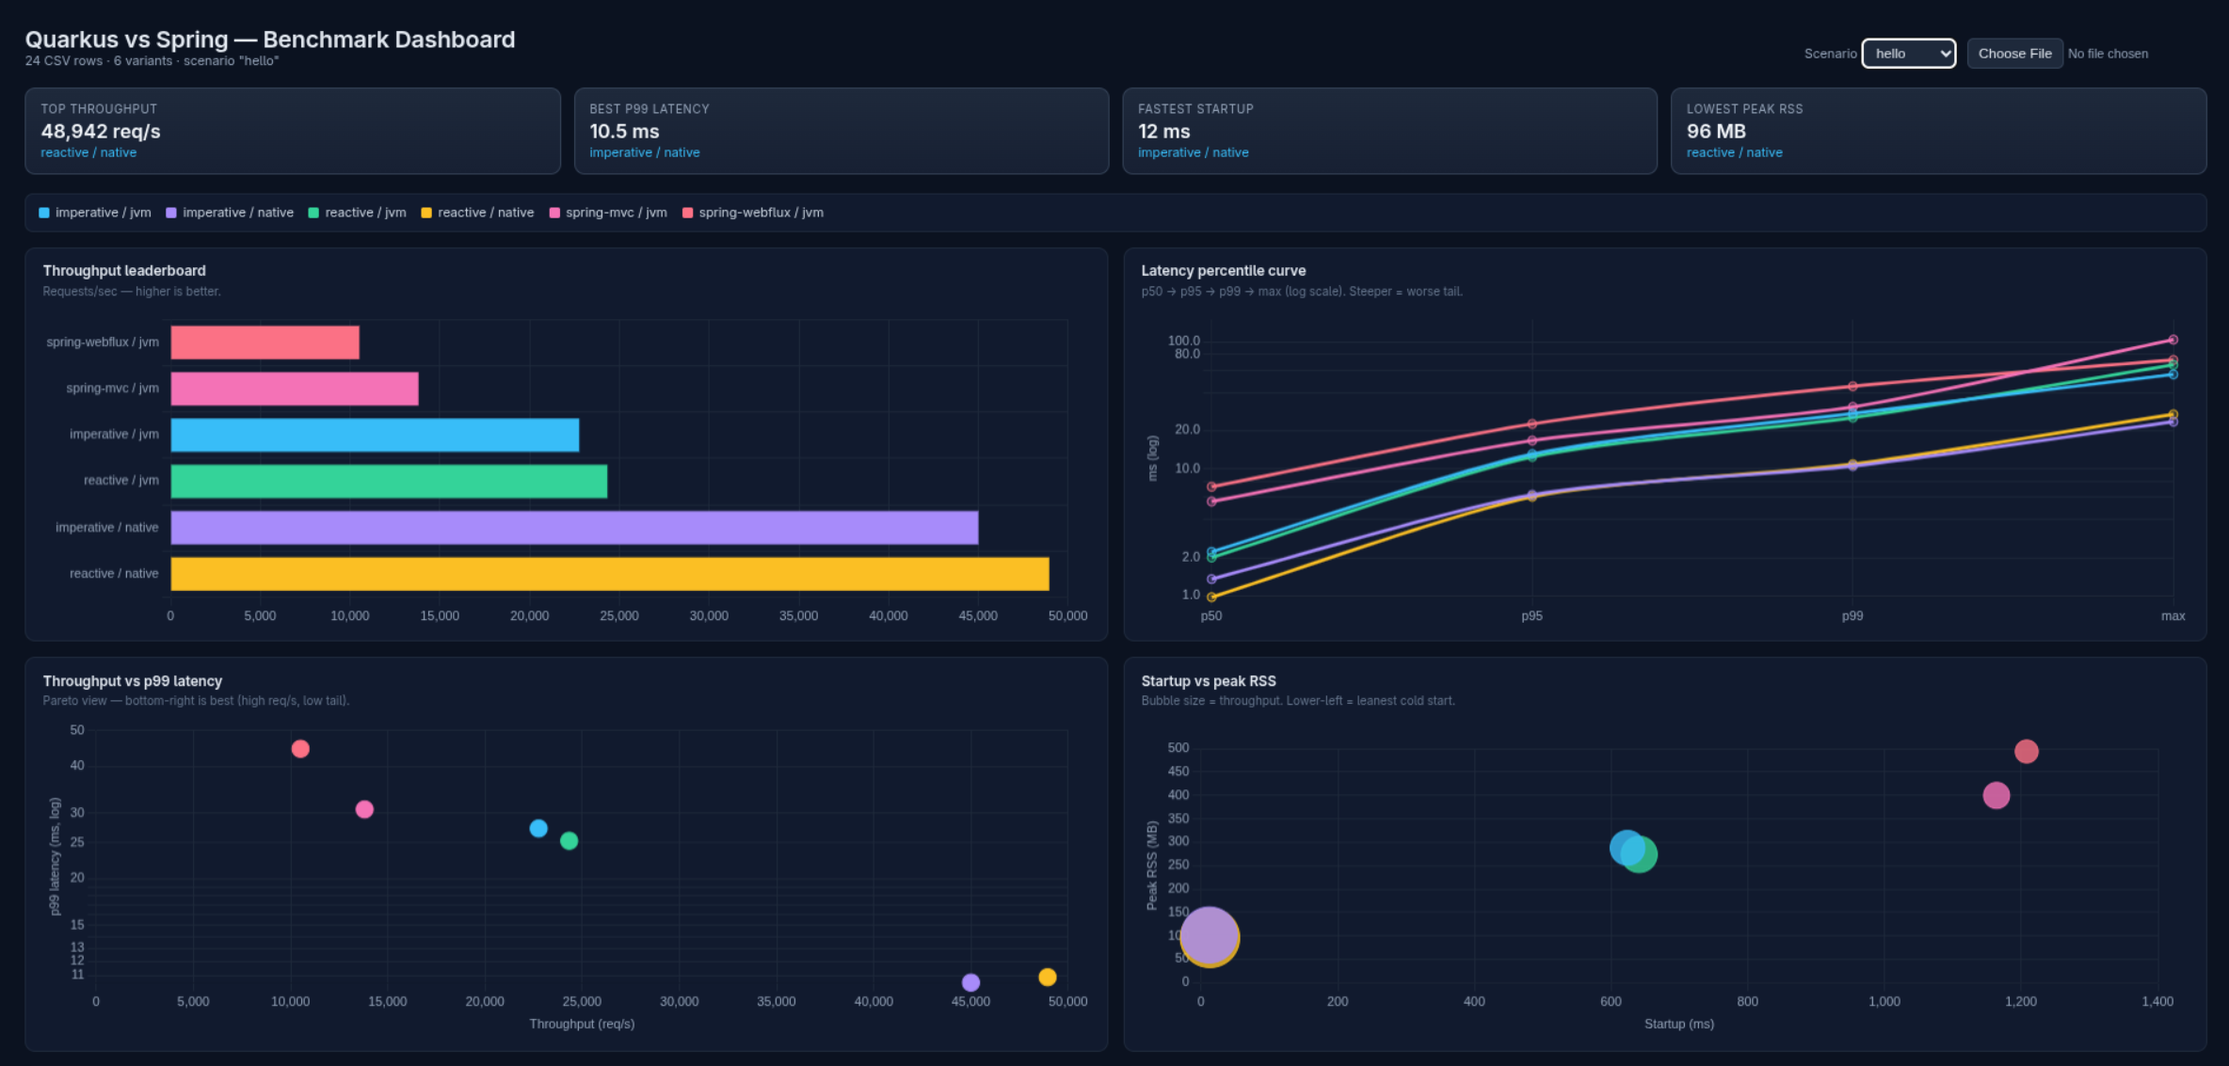
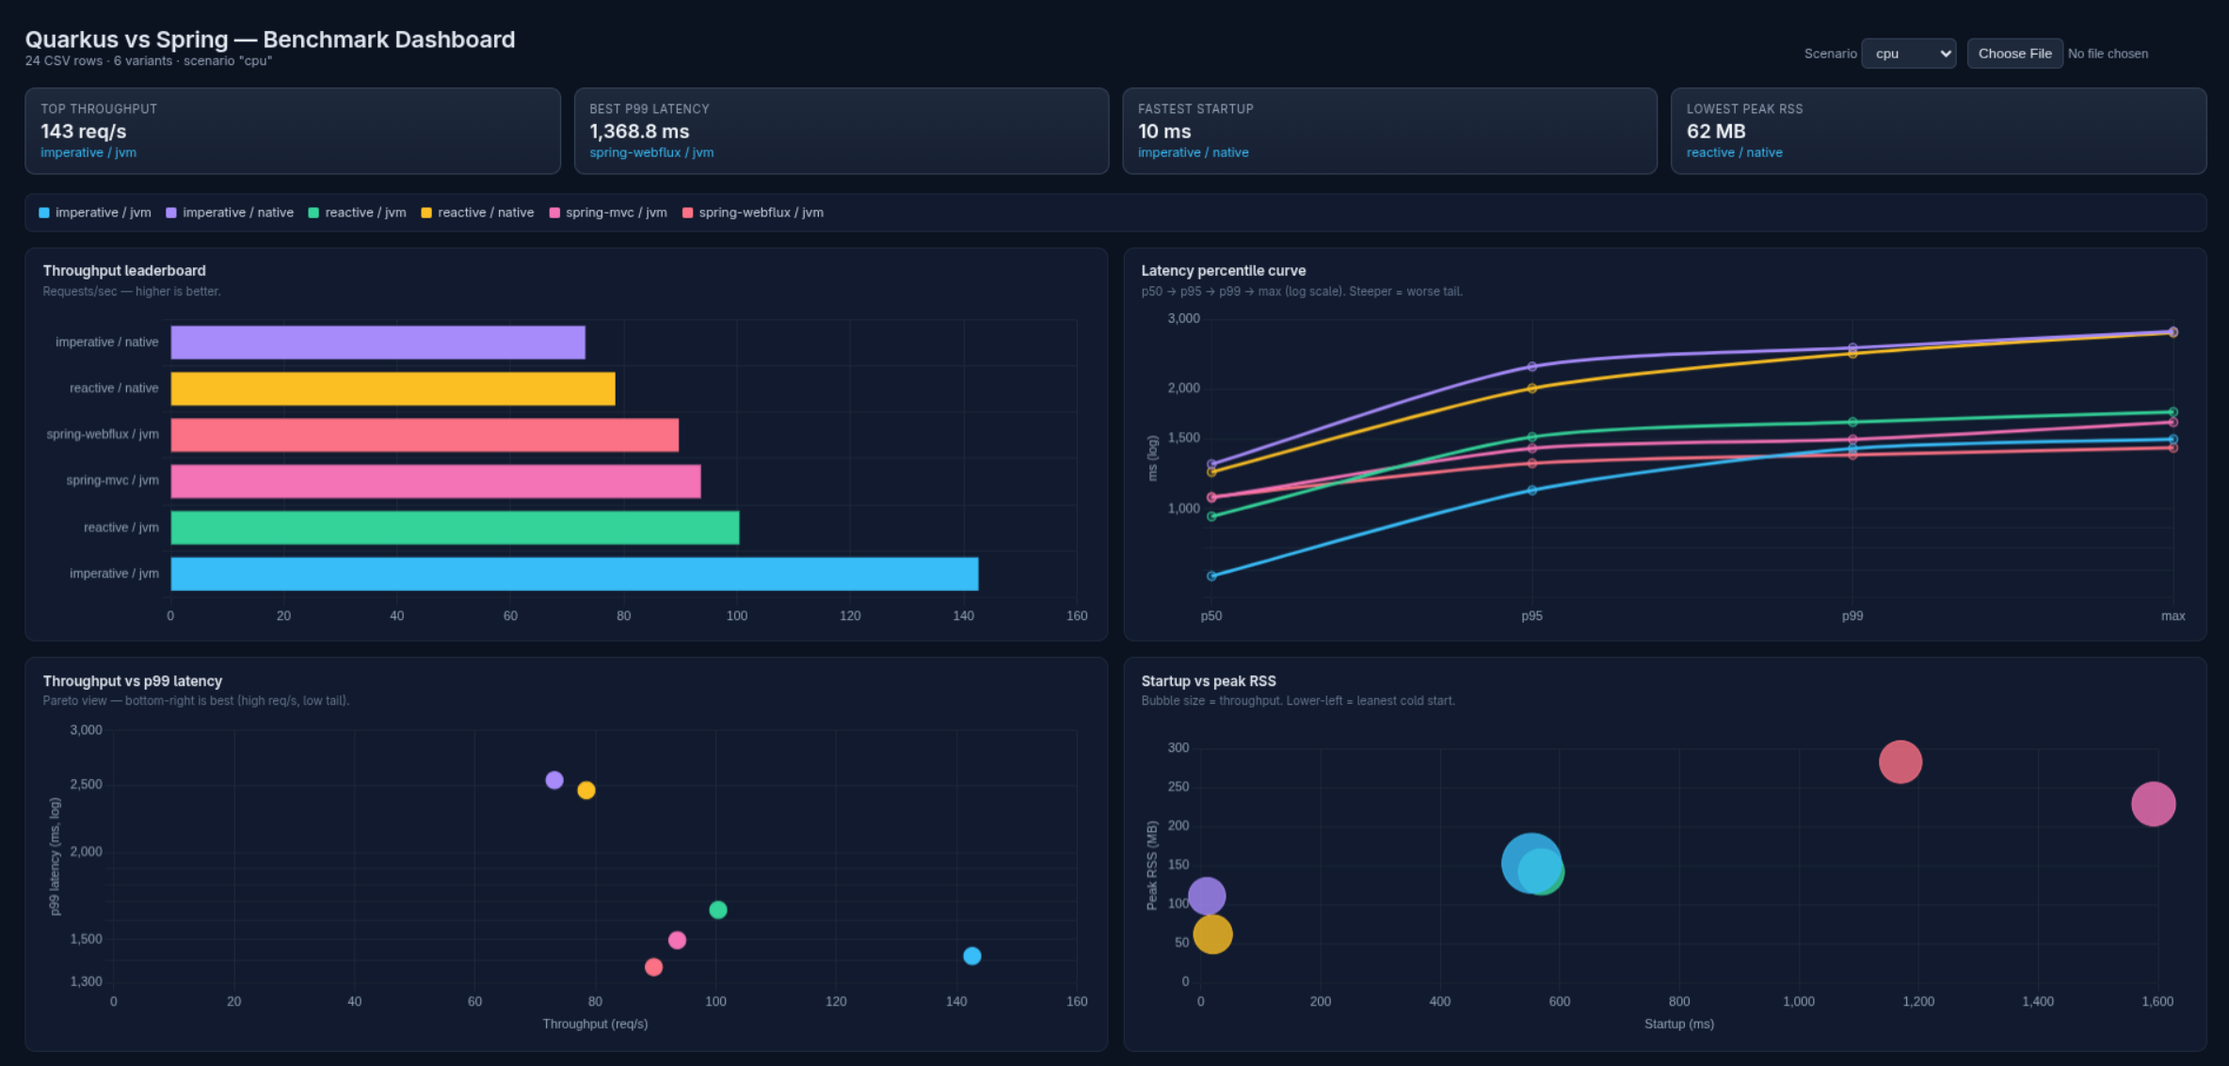
fix results

diff --git a/README.md b/README.md
@@ -1,6 +1,6 @@
 # Benchmark de Performance: Quarkus vs Spring Boot
 
-Comparação de seis variantes de runtime entre três formatos de carga de trabalho:
+Comparação de seis variantes de runtime entre quatro formatos de carga de trabalho:
 
 | Framework | Modo | Variante |
 |---|---|---|
@@ -9,13 +9,14 @@ Comparação de seis variantes de runtime entre três formatos de carga de traba
 | Spring Boot | Spring MVC (blocking, Tomcat) | apenas JVM |
 | Spring Boot | Spring WebFlux (reativo, Netty + Reactor) | apenas JVM |
 
-Cargas de trabalho: JSON leve (`hello`), uso intensivo de CPU (`cpu`), I/O simulado (`io`).
+Cargas de trabalho: JSON leve (`hello`), uso intensivo de CPU (`cpu`), pressão de alocação (`memory`) e I/O simulado (`io`).
 
 | Cenário | Caminho | Carga de trabalho |
 |---|---|---|
 | `hello` | `/{modo}/hello` | JSON leve, sem processamento |
 | `cpu` | `/{modo}/cpu` | Fibonacci(35) recursivo — CPU puro, determinístico |
 | `memory` | `/{modo}/memory` | Aloca + preenche um `byte[]` de 10 MB, retorna checksum — estressa o alocador e o GC |
+| `io` | `/{modo}/io` | Atraso artificial de ~200 ms (simula chamada externa / espera de banco) — a variante reativa usa suspensão não-bloqueante |
 
 > Cada aplicação expõe seu próprio prefixo de caminho (`/imperative`, `/reactive`, `/spring-mvc`, `/spring-webflux`); os binários nativos servem os mesmos caminhos que suas contrapartes JVM.
 
@@ -123,7 +124,7 @@ Seis testes de integração (3 endpoints × 2 aplicações), todos passando.
 
 [**k6**](https://k6.io/) (preferida conforme CLAUDE.md). Três scripts de cenário em `benchmarks/scenarios/`. Cada um recebe a URL completa pela variável de ambiente `URL`, de modo que os mesmos scripts cobrem ambas as aplicações e ambos os modos.
 
-### Perfil (rápido, modo de carga isolada, ~5 min no total)
+### Perfil (rápido, modo de carga isolada, ~10 min no total)
 
 Toda variante executa o **mesmo número exato de iterações** para um determinado cenário, então duração, vazão e latências são todas diretamente comparáveis dentro de um cenário.
 
@@ -131,10 +132,11 @@ Toda variante executa o **mesmo número exato de iterações** para um determina
 |---|---|
 | VUs concorrentes | 100 |
 | Iterações — hello | 50.000 |
-| Iterações — cpu | 500 |
-| Iterações — memory | 2.000 (cada = alocação de 10 MB → ~20 GB de alocações totais por variante) |
+| Iterações — cpu | 5.000 |
+| Iterações — memory | 5.000 (cada = alocação de 10 MB → ~50 GB de alocações totais por variante) |
+| Iterações — io | 5.000 |
 | Execuções por (app, modo, cenário) | 1 |
-| Total de execuções medidas | 18 (6 variantes × 3 cenários) |
+| Total de execuções medidas | 24 (6 variantes × 4 cenários) |
 
 O script orquestrador `benchmarks/run-all.sh`, para cada (app × modo × cenário): libera a porta, inicia a aplicação, aguarda `/hello` responder, captura o tempo de startup a partir do log da aplicação, executa o k6, lê o pico de RSS de `/proc/<pid>/status` (`VmHWM`, marca d'água registrada pelo kernel) e encerra a aplicação. Imprime uma única tabela markdown de resultados ao final. Sem CSV, sem arquivos por execução.
 
@@ -150,47 +152,58 @@ O script orquestrador `benchmarks/run-all.sh`, para cada (app × modo × cenári
 
 - Host: Linux 6.19, x86_64, 8 núcleos (valores de CPU% >100% refletem utilização multi-core)
 - Java 21 (OpenJDK), Quarkus 3.17.5, Mandrel via `quay.io/quarkus/ubi-quarkus-mandrel-builder-image:jdk-21`
-- **Benchmarking em host único**: o k6 e o SUT compartilham CPU. Os números são *comparativos dentro desta execução*, não manchetes absolutas.
+- **Benchmarking em host único**: o k6 e o SUT compartilham CPU. Os números são *comparativos dentro desta execução*, não valores absolutos de referência.
 - Sem tuning de JVM — apenas os padrões. O heap é ilimitado, o GC é o G1 padrão.
 
 ---
 
 ## Resultados
 
-Cada célula em um dado grupo de linhas de cenário executou o mesmo número de iterações, então **duração e req/s são comparáveis maçã-com-maçã dentro de cada cenário**. Amostra única por célula.
+Cada célula em um dado grupo de linhas de cenário executou o mesmo número de iterações, então **duração e req/s são diretamente comparáveis dentro de cada cenário**. Amostra única por célula.
 
 ### `/hello` — JSON leve (50.000 requisições, medição do overhead do framework)
 
 | app | modo | duração s | req/s | p95 ms | p99 ms | startup ms | pico RSS MB |
 |---|---|---:|---:|---:|---:|---:|---:|
-| reactive | native | **1.73** | **28.914** | **9.6** | **19.4** | 14 | 96 |
-| imperative | native | 1.86 | 26.874 | 9.7 | 18.5 | **14** | 102 |
-| imperative | jvm | 2.31 | 21.611 | 13.3 | 29.0 | 668 | 296 |
-| reactive | jvm | 3.59 | 13.942 | 23.4 | 51.2 | 658 | 227 |
-| spring-webflux | jvm | 6.45 | 7.757 | 36.5 | 66.0 | 1.761 | 449 |
-| spring-mvc | jvm | 7.16 | 6.985 | 39.5 | 71.3 | 1.980 | 397 |
+| imperative | native | **1.23** | **40.516** | **6.72** | **12.80** | **13** | 102 |
+| reactive | native | 1.24 | 40.362 | 7.11 | 13.94 | 13 | **96** |
+| reactive | jvm | 2.25 | 22.258 | 14.18 | 31.81 | 680 | 261 |
+| imperative | jvm | 2.41 | 20.745 | 13.97 | 30.80 | 644 | 270 |
+| spring-mvc | jvm | 3.64 | 13.740 | 17.69 | 29.56 | 1.354 | 396 |
+| spring-webflux | jvm | 4.76 | 10.500 | 24.50 | 45.92 | 1.257 | 451 |
 
-### `/cpu` — Fibonacci(35) no servidor (500 requisições)
-
-| app | modo | duração s | req/s | p95 ms | p99 ms | startup ms | pico RSS MB |
-|---|---|---:|---:|---:|---:|---:|---:|
-| imperative | jvm | **3.55** | **141** | 1390 | 1634 | 583 | 149 |
-| reactive | jvm | 6.01 | 83 | **1368** | **1430** | 597 | 124 |
-| spring-webflux | jvm | 6.53 | 77 | 1681 | 1801 | 1.365 | 312 |
-| spring-mvc | jvm | 7.23 | 69 | 3193 | 3752 | 2.212 | 222 |
-| imperative | native | 7.99 | 63 | 3203 | 3935 | **17** | 103 |
-| reactive | native | 9.60 | 52 | 2621 | 2735 | 13 | **53** |
-
-### `/memory` — aloca + preenche um byte[] de 10 MB (2.000 requisições; estressa alocador & GC)
+### `/cpu` — Fibonacci(35) no servidor (5.000 requisições)
 
 | app | modo | duração s | req/s | p95 ms | p99 ms | startup ms | pico RSS MB |
 |---|---|---:|---:|---:|---:|---:|---:|
-| imperative | jvm | **3.38** | **591** | 400 | 539 | 577 | 3.312 |
-| spring-mvc | jvm | 4.37 | 457 | 463 | 608 | 2.143 | 3.241 |
-| reactive | jvm | 4.47 | 447 | **374** | **395** | 755 | 7.312 ⚠ |
-| spring-webflux | jvm | 6.08 | 329 | 904 | 1.094 | 1.698 | 1.769 |
-| imperative | native | 7.37 | 272 | 691 | 833 | 13 | 948 |
-| reactive | native | 9.59 | 209 | 691 | 732 | 19 | **332** |
+| imperative | jvm | **52.57** | **95** | 1679 | 1870 | 581 | 224 |
+| reactive | jvm | 53.20 | 94 | **1457** | **1573** | 578 | 200 |
+| spring-mvc | jvm | 54.81 | 91 | 1551 | 1722 | 1.731 | 332 |
+| spring-webflux | jvm | 58.54 | 85 | 1932 | 3465 | 1.502 | 383 |
+| imperative | native | 74.63 | 67 | 2822 | 3480 | **10** | 117 |
+| reactive | native | 74.71 | 67 | 2774 | 3401 | 20 | **70** |
+
+### `/memory` — aloca + preenche um byte[] de 10 MB (5.000 requisições; estressa alocador & GC)
+
+| app | modo | duração s | req/s | p95 ms | p99 ms | startup ms | pico RSS MB |
+|---|---|---:|---:|---:|---:|---:|---:|
+| imperative | jvm | **7.76** | **645** | 355.35 | 527.10 | 605 | 3.476 |
+| spring-mvc | jvm | 8.13 | 615 | **294.49** | **435.05** | 1.708 | 3.548 |
+| reactive | jvm | 8.30 | 602 | 366.93 | 522.05 | 829 | 3.352 |
+| spring-webflux | jvm | 9.04 | 553 | 422.76 | 514.32 | 1.320 | 2.699 |
+| imperative | native | 17.18 | 291 | 617.93 | 750.70 | 16 | 1.079 |
+| reactive | native | 18.00 | 278 | 682.56 | 867.25 | **11** | **889** |
+
+### `/io` — atraso artificial de ~200 ms (5.000 requisições; mede o modelo de concorrência)
+
+| app | modo | duração s | req/s | p95 ms | p99 ms | startup ms | pico RSS MB |
+|---|---|---:|---:|---:|---:|---:|---:|
+| reactive | native | **10.08** | **496** | **203.23** | **210.38** | 19 | **85** |
+| imperative | native | 10.08 | 496 | 205.16 | 217.33 | 19 | 118 |
+| imperative | jvm | 10.09 | 496 | 204.21 | 216.11 | 697 | 203 |
+| reactive | jvm | 10.13 | 494 | 206.96 | 221.86 | 703 | 181 |
+| spring-mvc | jvm | 10.14 | 493 | 205.54 | 241.03 | 1.738 | 288 |
+| spring-webflux | jvm | 10.18 | 491 | 208.39 | 242.26 | 1.209 | 425 |
 
 (Negrito = melhor da coluna para aquele cenário.)
 
@@ -198,98 +211,44 @@ Cada célula em um dado grupo de linhas de cenário executou o mesmo número de 
 
 ## Análise
 
-### O Quarkus é significativamente mais rápido que o Spring Boot na JVM (`/hello`)
+### `/hello` — overhead puro de framework
 
-Apenas JVM-contra-JVM (mesmas condições):
+Apenas JVM-contra-JVM: Quarkus reativo 22.258 req/s (**+62%**) e imperativo 20.745 (**+51%**) contra os 13.740 do Spring MVC; o Spring WebFlux fica em último, com 10.500 (**−24%**). O wiring em tempo de build do Quarkus (sem scan de classpath em runtime) corta o overhead por requisição. Reativo e imperativo empatam — sem trabalho real, o modelo de execução não importa. O WebFlux perde até do MVC: a cadeia de `Mono` por requisição custa mais do que rende quando não há I/O para sobrepor.
 
-| Variante | req/s | Δ vs Spring MVC |
-|---|---:|---:|
-| Quarkus imperativo | 21.611 | **+209%** |
-| Quarkus reativo | 13.942 | **+100%** |
-| Spring WebFlux | 7.757 | **+11%** |
-| Spring MVC | 6.985 | linha de base |
+O nativo dobra a JVM (~40k vs ~21–22k req/s): a rajada termina antes de o JIT aquecer. Vantagem real para rajada curta, FaaS e scale-to-zero; irrelevante para serviços de longa duração, onde a JVM se equipara.
 
-O Quarkus imperativo em JVM atinge ~3× a vazão do Spring MVC. As otimizações de framework em tempo de build do Quarkus (sem varredura de classpath em runtime, grafo CDI resolvido via AOT, roteamento em tempo de compilação do RESTEasy Reactive) reduzem drasticamente o overhead por requisição.
+### `/cpu` — Fibonacci(35)
 
-Note também que **o Spring WebFlux mal supera o Spring MVC** no `/hello` (apenas +11%) — Netty + Reactor deveria dominar requisições leves. O overhead do pipeline WebFlux/Reactor (cada requisição vira uma cadeia de assinatura `Mono`) quase anula sua vantagem teórica em cenários leves. O ponto de design do WebFlux é fanout de I/O de alta concorrência, não custo mínimo por requisição.
+Com 5.000 iterações as variantes JVM ficam quase empatadas (85–95 req/s); o imperativo JVM lidera por pouco e o reativo JVM tem a cauda mais apertada (p99 1.573 ms) graças ao pool dedicado. O nativo fica ~30% atrás — o AOT não tem a otimização guiada por perfil que o JIT aplica ao caminho recursivo quente. CPU-bound é a carga em que o JIT compensa o custo do warmup.
 
-### O nativo vence o `/hello` aqui — a história do warmup do JIT
+### `/memory` — alocação e GC
 
-Em uma rajada de 50.000 requisições, o `/hello` nativo termina em **1.73 s (reativo) ou 1.86 s (imperativo) vs 7.16 s do Spring MVC** — o Quarkus reativo nativo é ~4× mais rápido que o Spring MVC.
+A JVM faz ~2,2× a vazão do nativo (645 vs 291 req/s): G1 paralelo e concorrente contra o Serial GC single-threaded do GraalVM nativo. Em troca, o nativo usa ~3–4× menos memória (889–1.079 MB vs 2,7–3,5 GB) — sem `-Xmx`, o G1 cresce o heap livremente. A JVM otimiza vazão, o nativo otimiza densidade; ambos os lados são ajustáveis (`-H:+UseG1GC` no nativo, `-Xmx` na JVM).
 
-A razão pela qual o nativo vence a JVM aqui é o **warmup do JIT**: a ~21–28k req/s, a execução termina antes de o HotSpot ter promovido completamente os caminhos quentes (tiered-up). O nativo não tem fase de warmup. Para serviços de longa duração com horas de tráfego, a JVM se equipara (isso é bem documentado em toda a indústria, e nossas execuções anteriores de 30 segundos mostraram isso). Para cargas de trabalho de **rajada curta, FaaS, scale-to-zero ou jobs agendados**, o tempo de warmup é tempo morto que você efetivamente paga, e o nativo vence.
+### `/io` — atraso de ~200 ms
 
-### CPU — imperativo JVM dominante; nativo perde feio
+Com atraso fixo e 100 VUs, o teto é ~500 req/s e todas as seis variantes batem nele (491–496) — a carga é limitada pelo atraso, não pelo framework. A vantagem do reativo (não imobilizar uma thread por requisição bloqueada) só apareceria bem acima de 100 VUs, quando as variantes blocantes esgotam o pool de workers; aumente `VUS` para vê-la. O que `/io` revela aqui é eficiência de recursos: o reativo nativo serve a mesma carga com 85 MB de RSS contra 425 MB do Spring WebFlux.
 
-| Variante | req/s | p99 ms |
-|---|---:|---:|
-| Quarkus imperativo JVM | **141** | 1634 |
-| Quarkus reativo JVM | 83 | **1430** ← cauda mais apertada |
-| Spring WebFlux | 77 | 1801 |
-| Spring MVC | 69 | 3752 |
-| Quarkus imperativo nativo | 63 | 3935 |
-| Quarkus reativo nativo | 52 | 2735 |
+### Startup & RSS
 
-O Quarkus imperativo JVM vence com folga a 141 req/s — sem overhead de dispatch para pool de workers, apenas chamadas blocantes puras. O reativo JVM troca 41% de vazão pela cauda de latência mais apertada (p99 = 1.43 s, ~12% melhor que o imperativo). **O nativo é 50–63% mais lento que o imperativo JVM** porque a otimização guiada por perfil do JIT sobre o caminho quente recursivo do Fibonacci está ausente no AOT.
-
-### Alocação de memória — o trade-off do GC exposto
-
-| Variante | req/s | Pico RSS MB | Observações |
-|---|---:|---:|---|
-| Quarkus imperativo JVM | **591** | 3.312 | G1 maximiza o paralelismo na alocação |
-| Spring MVC | 457 | 3.241 | vazão competitiva, RSS similar |
-| Quarkus reativo JVM | 447 | **7.312** ⚠ | G1 cresceu o heap agressivamente sob pressão |
-| Spring WebFlux | 329 | 1.769 | alocador do Netty mais restrito |
-| Quarkus imperativo nativo | 272 | 948 | Serial GC: single-threaded, lento mas compacto |
-| Quarkus reativo nativo | 209 | **332** | menor RSS por 5–22× |
-
-Este é o cenário mais informativo do conjunto. Dois achados:
-
-**A JVM é ~2–3× mais rápida na alocação que o nativo.** O G1 (padrão da JVM) é paralelo e concorrente. O GraalVM nativo usa **Serial GC por padrão** — mark-sweep-compact single-threaded. Sob forte pressão de alocação, a implementação do GC domina a vazão.
-
-**O nativo usa drasticamente menos memória sob a mesma pressão.** O Quarkus reativo nativo atingiu pico de 332 MB de RSS enquanto rodava 2.000 × alocações de 10 MB; o reativo JVM atingiu pico de **7,3 GB** para o mesmo trabalho (o G1 cresce o heap alegremente quando a alocação é rápida e nenhum `-Xmx` é definido). Isso é uma **diferença de RSS de 22× para uma carga de trabalho idêntica**.
-
-Você pode ajustar ambos os lados: aumente o nativo para G1 via `-Dquarkus.native.additional-build-args=-H:+UseG1GC` (builds de produção) para recuperar a vazão de alocação do nativo ao custo de RSS, ou restrinja a JVM com `-Xmx256m` para inverter o trade-off no outro sentido. Os padrões refletem a filosofia de deployment de cada um: a JVM otimiza para vazão em um servidor, o nativo para densidade em serverless/edge.
-
-### Startup & RSS em repouso: o overhead persistente do Spring
-
-| Framework | Startup (ms, faixa) | Pico RSS no `/hello` (MB) |
-|---|---:|---:|
-| Quarkus nativo | **13–19** | 96–102 |
-| Quarkus JVM | 577–755 | 227–296 |
-| Spring Boot JVM | 1.365–2.212 | 397–449 |
-
-O startup do Spring Boot JVM é **~3× o do Quarkus JVM e ~110× o do Quarkus nativo**. O pico de RSS do Spring no `/hello` é ~1,5× o do Quarkus JVM e ~4× o do Quarkus nativo. Para deployments em Kubernetes com muitas réplicas, ou serverless com scale-to-zero, esses números se acumulam.
-
-### Resumo dos trade-offs
-
-| Se você otimiza para… | Escolha |
-|---|---|
-| Tempo de cold-start (FaaS, scale-to-zero) | **Quarkus nativo** (13–19 ms) |
-| Densidade de memória em repouso | **Quarkus reativo nativo** (96 MB no /hello) |
-| Densidade de memória *sob carga* | **Quarkus reativo nativo** (332 MB mesmo sob 20 GB de pressão de alocação) |
-| Vazão em rajada curta | **Quarkus nativo** (sem imposto de warmup) |
-| Cargas de trabalho intensivas em alocação (parsing, transformação de payloads grandes) | **Quarkus imperativo JVM** (591 req/s no /memory) |
-| Trabalho CPU-bound | **Quarkus imperativo JVM** |
-| Latência de cauda em CPU | **Quarkus reativo JVM** (pool dedicado) |
-| Pico de vazão JVM em endpoints leves | **Quarkus imperativo JVM** |
-| Já está no Spring, blocking serve | **Spring MVC** |
-| Já está no Spring, precisa de backpressure / streaming reais | **Spring WebFlux** |
+Startup: Quarkus nativo 13–20 ms, Quarkus JVM ~580–830 ms, Spring Boot JVM 1,2–1,7 s (~2× Quarkus JVM, ~90× Quarkus nativo). Pico de RSS no `/hello`: nativo ~96–102 MB, Quarkus JVM ~260–270 MB, Spring ~400–450 MB. Esses números se multiplicam pelo número de réplicas em Kubernetes e serverless.
 
 ### Falhas
 
-**Zero** requisições falhas em todas as 18 execuções (~315.000 requisições no total).
+**Zero** requisições falhas nas 24 execuções (~390.000 requisições no total).
 
 ### Resumo dos trade-offs
 
 | Se você otimiza para… | Escolha |
 |---|---|
-| Tempo de cold-start (FaaS, scale-to-zero) | **Nativo** (qualquer variante) |
-| Densidade de memória (muitas réplicas, k8s) | **Nativo** (reativo nativo tem o menor RSS) |
-| Pico de vazão sustentado | **JVM** (reativo para I/O-leve, qualquer um para CPU) |
-| Latência de cauda previsível em trabalho de CPU | **Reativo JVM** (pool de workers dedicado) |
-| Fanout de I/O de alta concorrência (>>100 VUs) | **Reativo** (este benchmark não exercitou essa faixa, mas a arquitetura é a resposta consagrada) |
-| Simplicidade & facilidade de depuração | **Imperativo JVM** |
+| Cold-start (FaaS, scale-to-zero) | **Quarkus nativo** (13–20 ms) |
+| Densidade de memória | **Quarkus nativo** (96 MB em repouso, 889 MB sob pressão de alocação) |
+| Vazão em rajada curta | **Quarkus nativo** (sem imposto de warmup) |
+| Vazão em alocação e CPU sustentados | **Quarkus imperativo JVM** |
+| Latência de cauda em CPU | **Quarkus reativo JVM** (pool dedicado) |
+| Vazão JVM em endpoints leves | **Quarkus reativo ou imperativo JVM** (empate técnico) |
+| Fanout de I/O em alta concorrência (>>100 VUs) | **Reativo** (não exercitado neste perfil, mas é a arquitetura indicada) |
+| Já está no Spring | **Spring MVC** (blocking) ou **WebFlux** (streaming / backpressure) |
 
 ---
 
@@ -342,11 +301,11 @@ Qualquer servidor estático funciona (`npx serve`, `caddy file-server`, etc.). A
 
 ```bash
 git clone <repo> && cd java-comparison
-mvn -DskipTests package
-mvn -pl imperative-app -am package -Pnative -DskipTests
-mvn -pl reactive-app  -am package -Pnative -DskipTests
+./build-all.sh             # compila os jars JVM das 4 apps + os binários nativos do Quarkus
 ./benchmarks/run-all.sh    # ~25 minutos
 cat benchmarks/results/summary.csv
 ```
+
+O `build-all.sh` é a forma recomendada de compilar tudo: ele produz os jars JVM das quatro aplicações e os binários nativos `-runner` das duas aplicações Quarkus de uma só vez (veja a seção *Build de tudo de uma vez*).
 
 Ajuste a carga via variáveis de ambiente: `VUS=200 MEASURE=60s RUNS_PER_COMBO=5 ./benchmarks/run-all.sh`.
